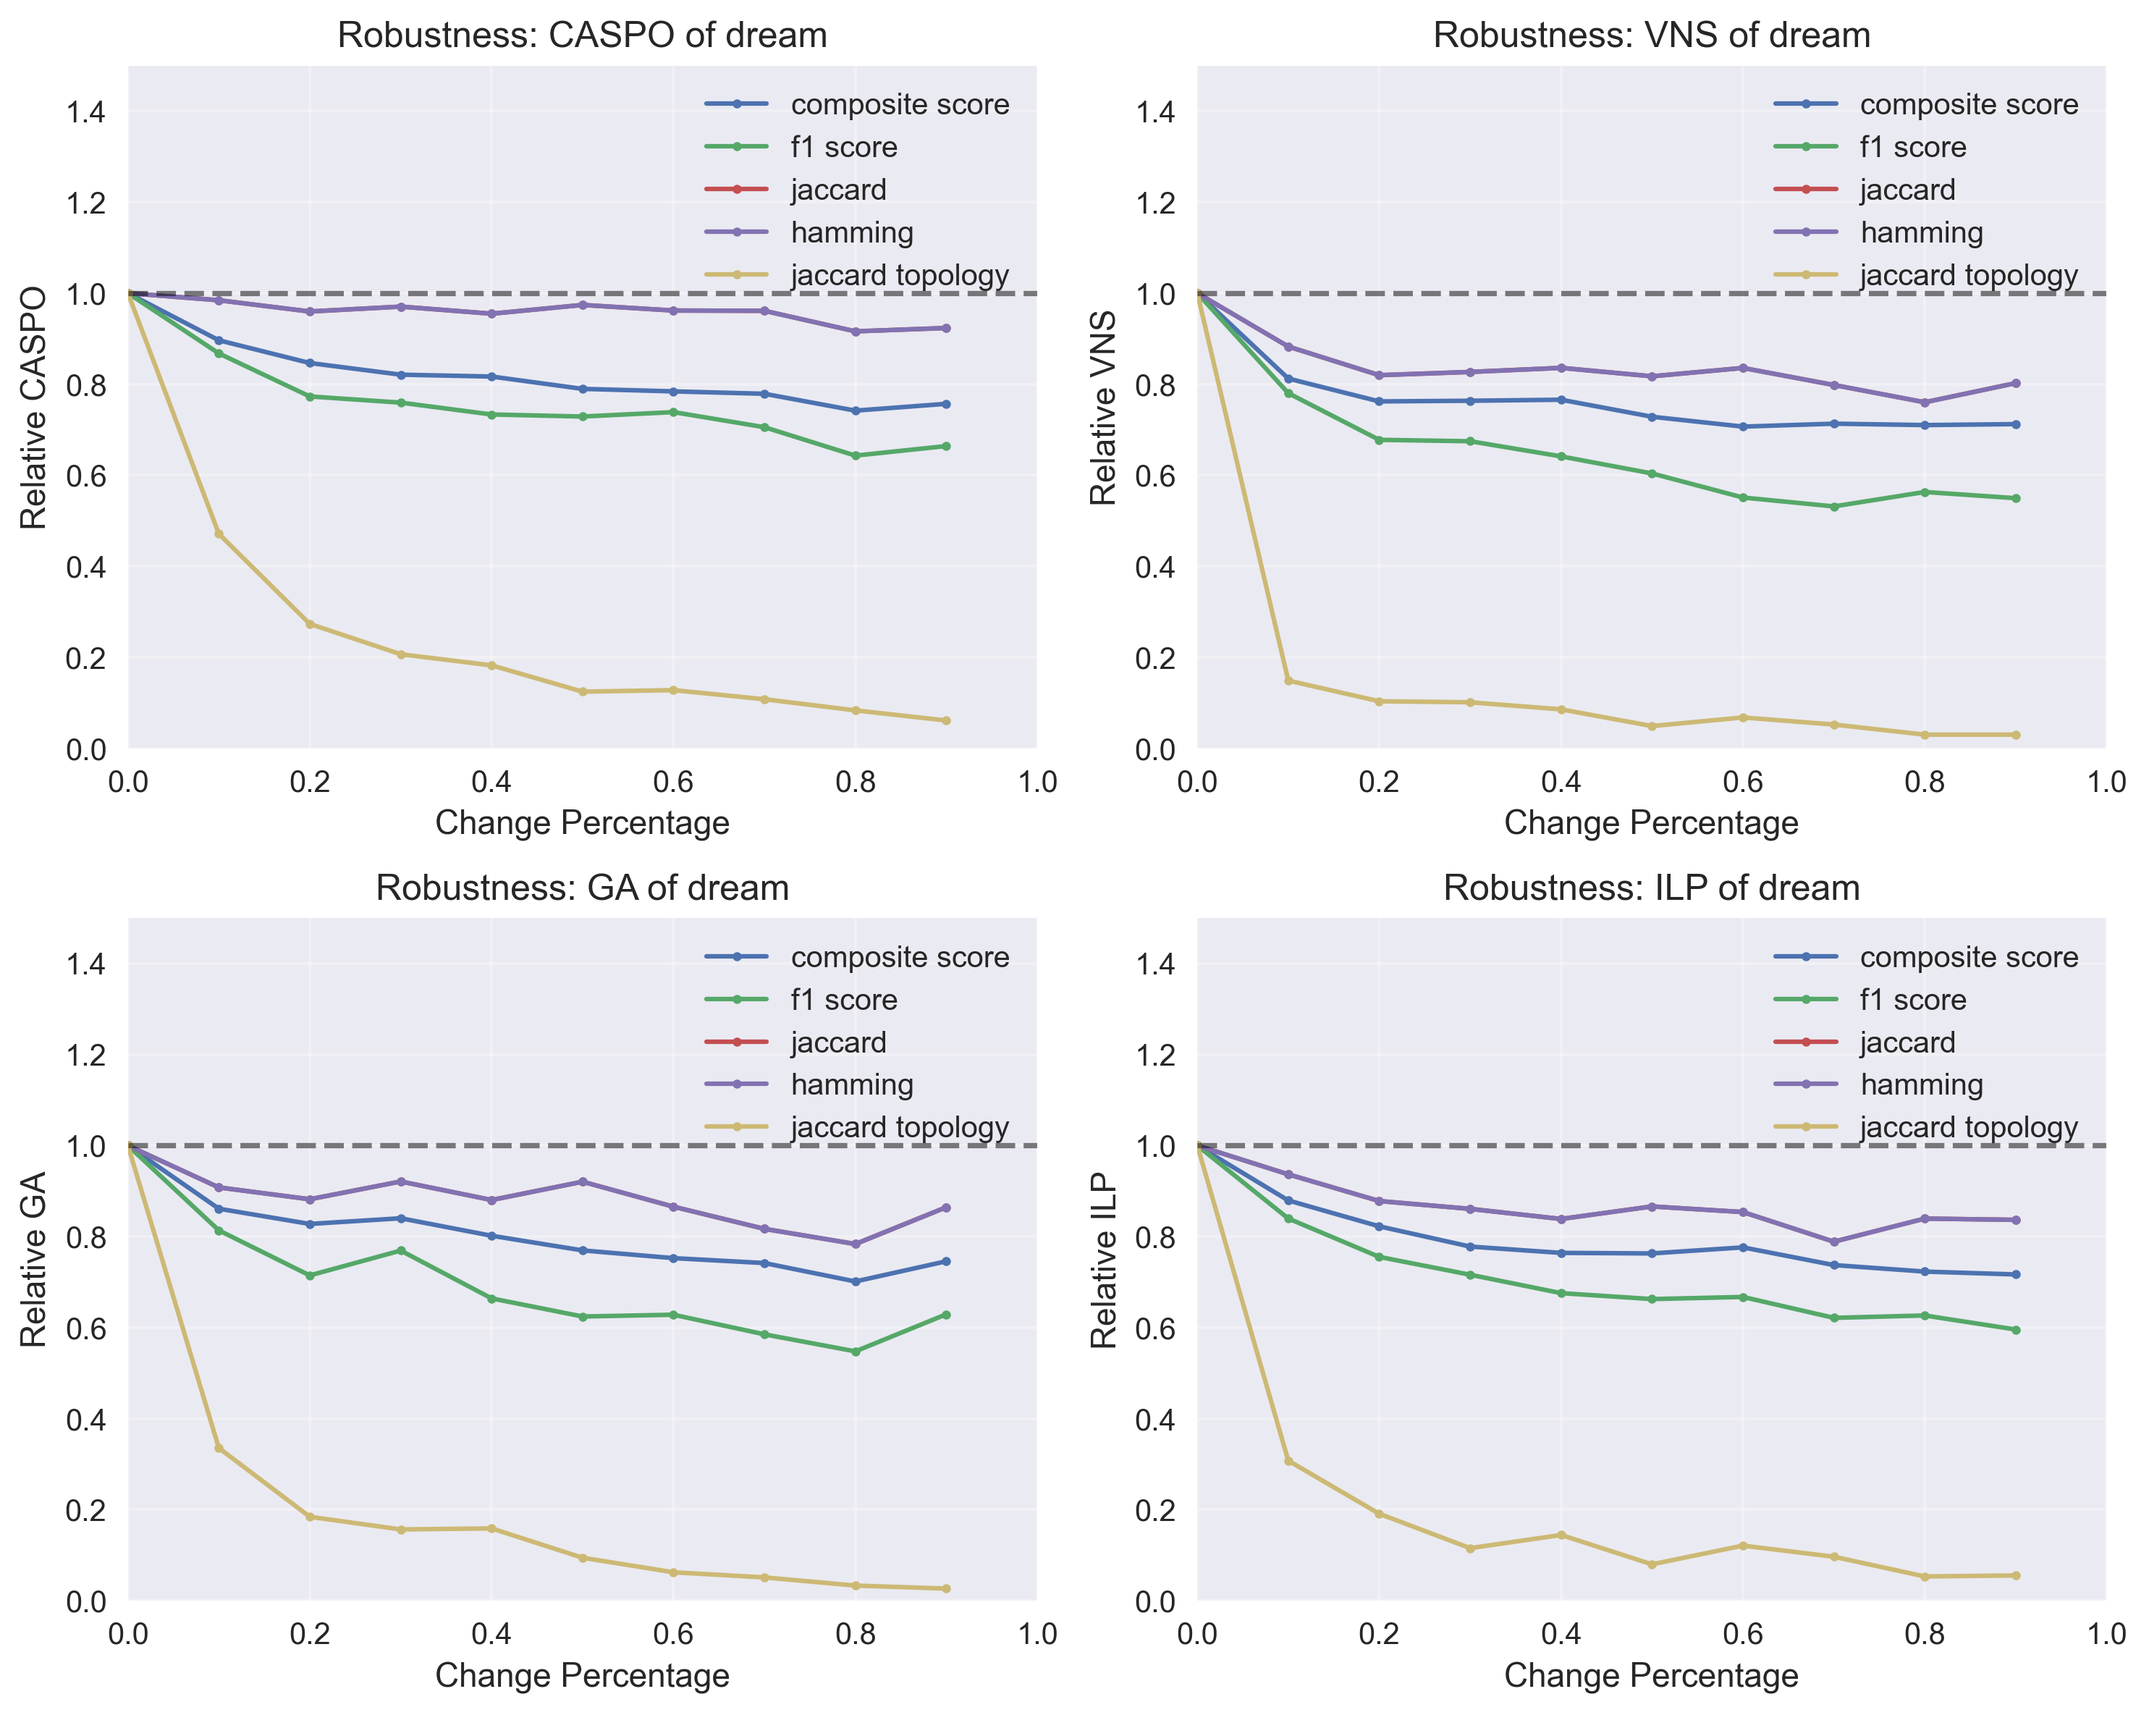
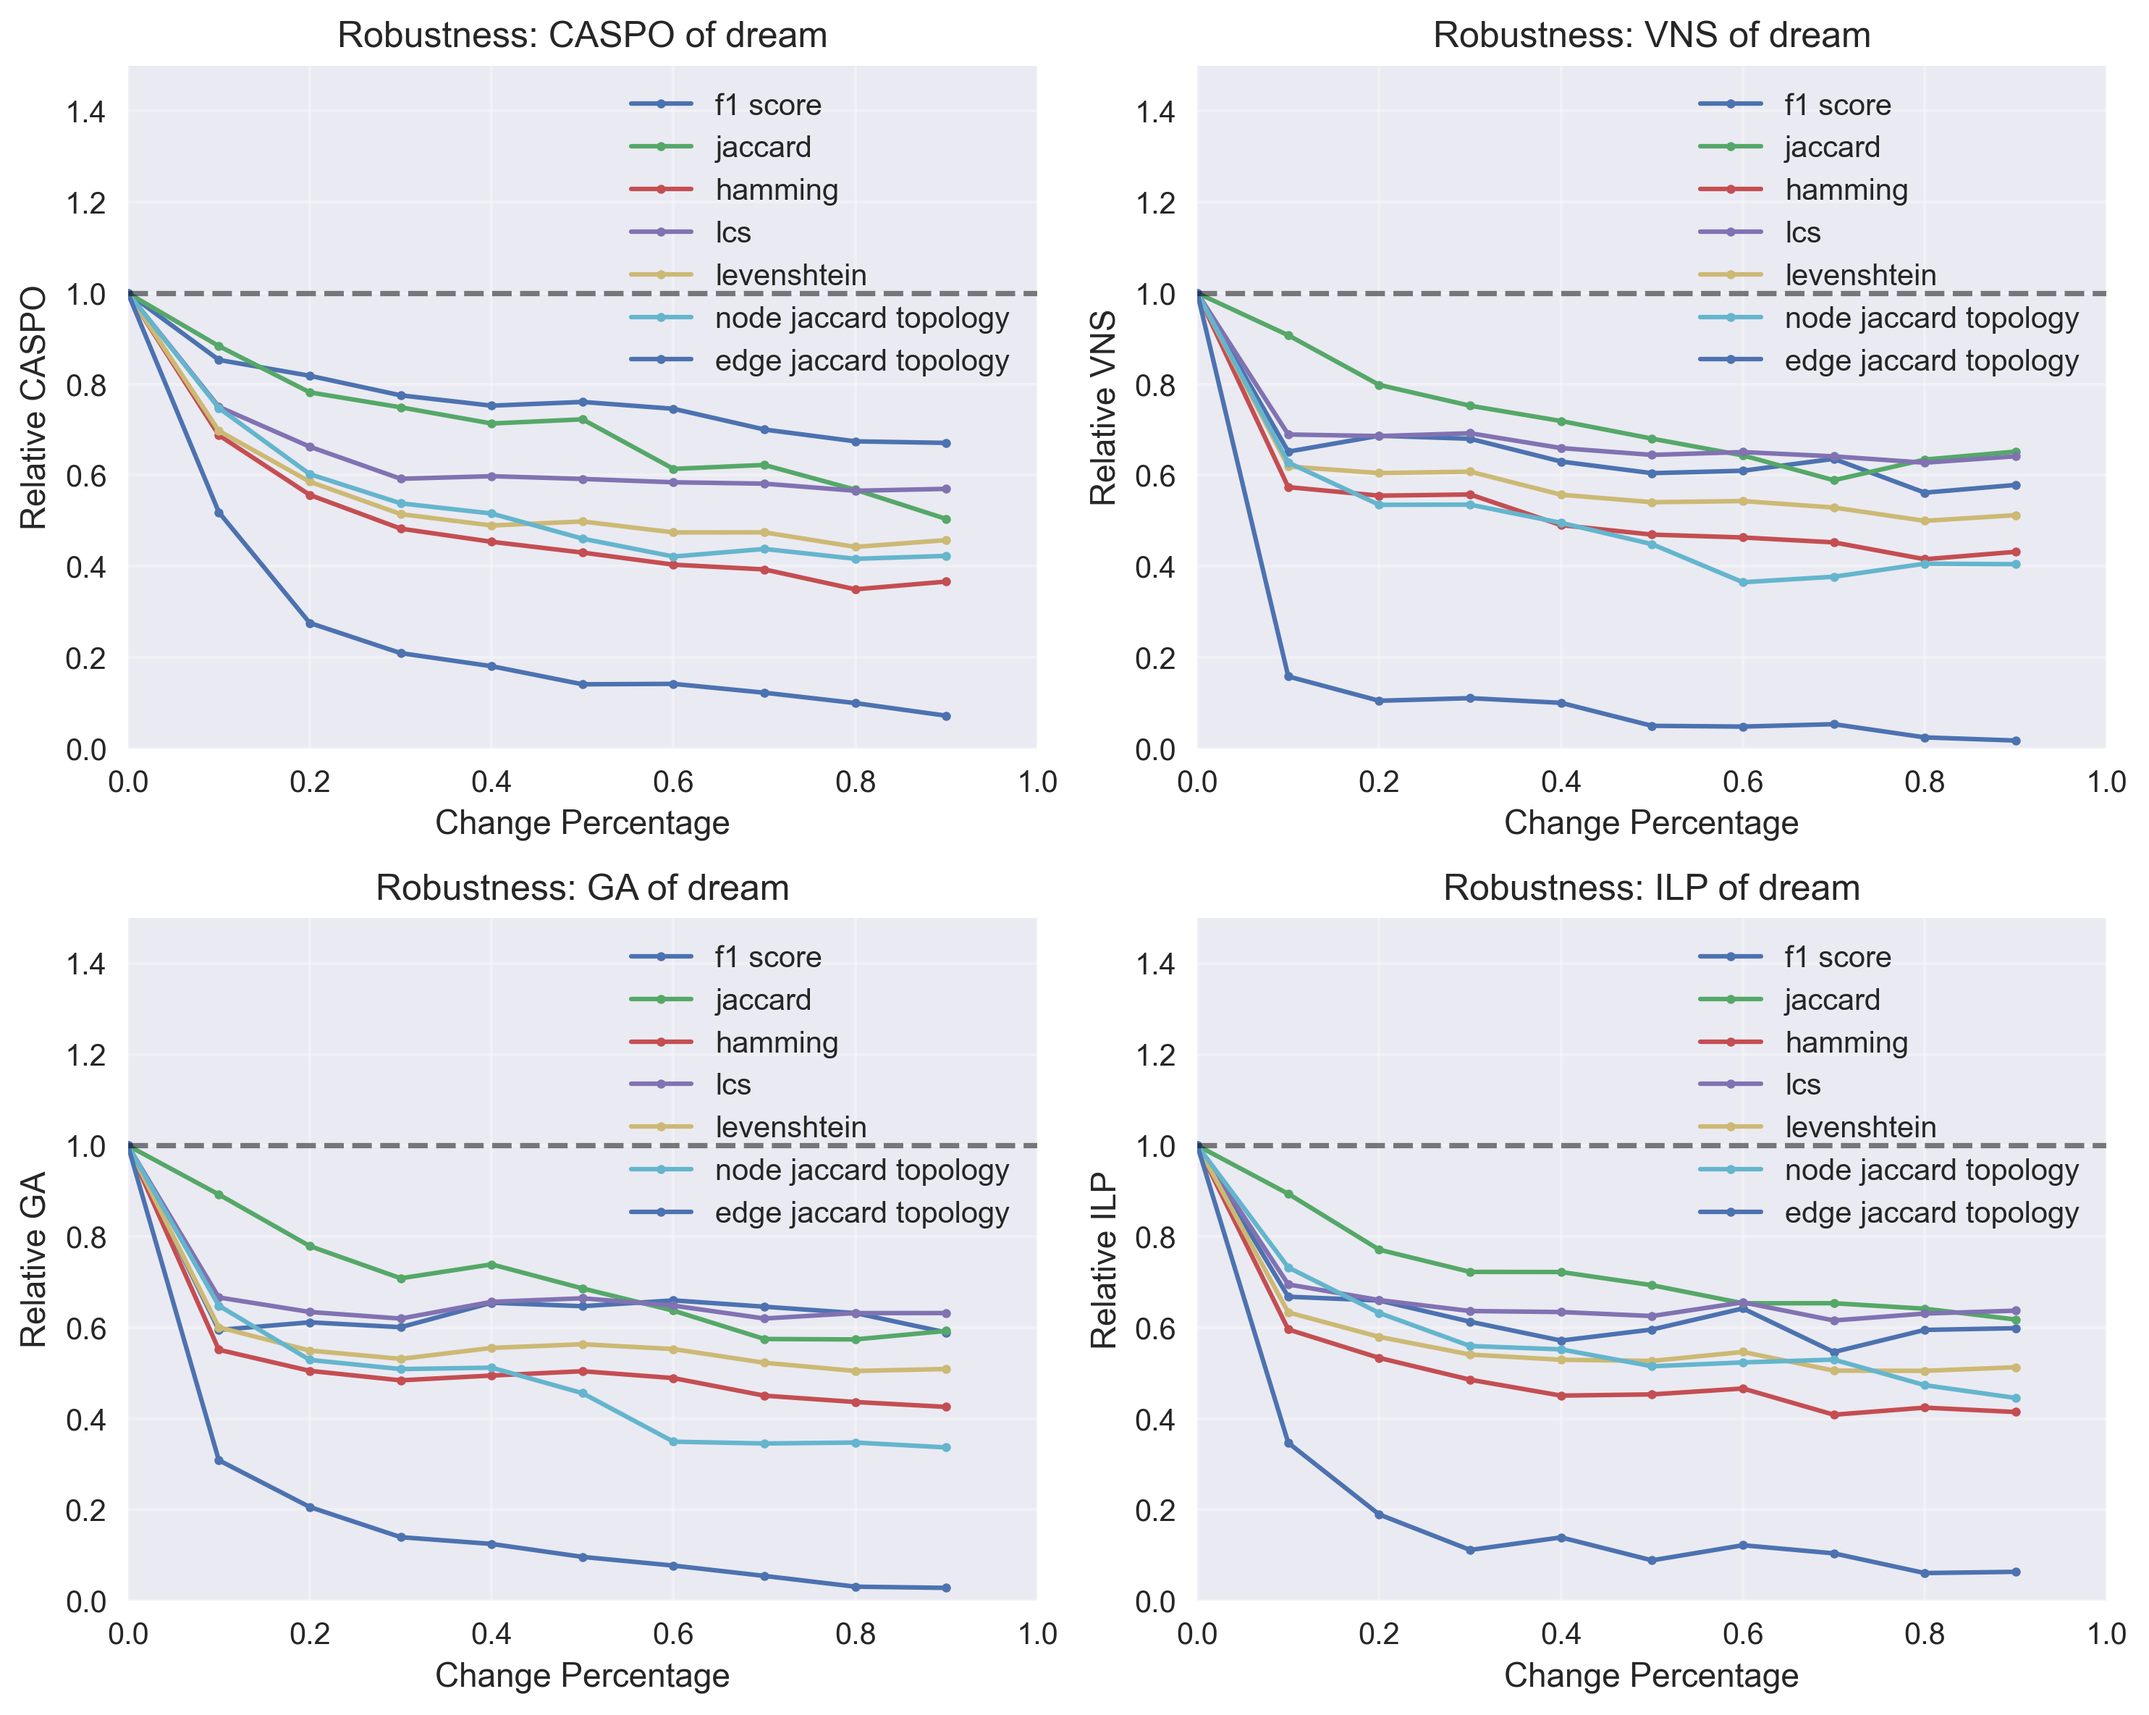
update 27th AUG

diff --git a/Step_04_Plot.py b/Step_04_Plot.py
@@ -7,7 +7,6 @@ import argparse
 plt.style.use('seaborn-v0_8')
 # sns.set_palette("husl")
 # plt.style.use(['science'])
-
 # Define the methods and their colors for consistent visualization
 methods = ['CASPO', 'VNS', 'GA', 'ILP']
 colors = ['#E41A1C', '#377EB8', '#4DAF4A', '#FF7F00']  # Red, Blue, Green, Orange (ColorBrewer Set1)
@@ -50,9 +49,9 @@ def create_comparison_plots(df, dataset_name='toy'):
     key_metrics = {
         'Similarity Metrics': ['jaccard', 'hamming', 'lcs', 'levenshtein'],
         'Coverage Metrics': ['precision', 'recall', 'f1_score', 'mse'],
-        'Topology Metrics': ['node_jaccard_topology', 'edge_jaccard_topology', 
-                             'graph_edit_distance', 'degree_distribution']
+        'Topology Metrics': ['node_jaccard_topology', 'edge_jaccard_topology', 'graph_edit_distance']
     }
+    
     # Create figure 1: Attractor similarity metrics comparison
     fig, axes = plt.subplots(2, 2, figsize=(8, 6))
     fig.suptitle(f'Attractor Similarity Metrics Comparison Across Methods of {dataset_name}', fontsize=16, fontweight='bold')
@@ -78,43 +77,57 @@ def create_comparison_plots(df, dataset_name='toy'):
     plt.close(fig)
                  
     # Create figure 3: Topology similarity metrics comparison
-    fig, axes = plt.subplots(2, 2, figsize=(8, 6))
+    fig, axes = plt.subplots(1, 2, figsize=(8, 6))
     fig.suptitle(f'Topology Similarity Metrics Comparison Across Methods of {dataset_name}', fontsize=16, fontweight='bold')
 
-    plot_metric(df, axes[0, 0], 'node_jaccard_topology', 'Node Jaccard Topology Performance', 'o')
-    plot_metric(df, axes[0, 1], 'edge_jaccard_topology', 'Edge Jaccard Topology Performance', 's')
-    plot_metric(df, axes[1, 0], 'graph_edit_distance', 'Graph Edit Distance Performance', '^')
-    plot_metric(df, axes[1, 1], 'degree_distribution', 'Degree Distribution Performance', 'D')
+    plot_metric(df, axes[0], 'node_jaccard_topology', 'Node Jaccard Performance', 'o')
+    plot_metric(df, axes[1], 'edge_jaccard_topology', 'Edge Jaccard Performance', 's')
     plt.tight_layout()
     fig.savefig(output_dir / 'topology_similarity_metrics.png', dpi=300, bbox_inches='tight')
     plt.close(fig)
            
     # Create figure 4: Runtime comparison
-    if 'total_time' in df.columns:      
-        fig, ax = plt.subplots(figsize=(8, 6))  
-        
-        for method in methods:
-            method_data = df[df['method'] == method]
-            ax.plot(method_data['change_percent'], method_data['total_time'], 
-                       marker='o', linewidth=1.5, markersize=3, label=method, color=method_colors[method])
-        
-        ax.set_xlabel('Change Percentage')
-        ax.set_ylabel('Total Time (log scale)')
-        ax.set_title(f'Runtime Comparison Across Methods of {dataset_name}')
-        ax.legend()
-        ax.grid(True, alpha=0.3)
-        
-        plt.tight_layout()
-        plt.savefig(output_dir / 'runtime_comparison.png', dpi=300, bbox_inches='tight')
-        plt.close()
+    fig, axes = plt.subplots(1, 2, figsize=(12, 6))
+    ax_time, ax_recon = axes.ravel()
+
+    # Left: runtime (log scale)
+    for method in methods:
+        method_data = df[df['method'] == method]
+        ax_time.plot(
+            method_data['change_percent'], method_data['total_time'],
+            marker='o', linewidth=1.5, markersize=3, label=method, color=method_colors[method]
+        )
+    ax_time.set_xlabel('Change Percentage')
+    ax_time.set_ylabel('Total Time (log scale)')
+    ax_time.set_title(f'Runtime Comparison Across Methods of {dataset_name}')
+    ax_time.set_yscale('log')
+    ax_time.grid(True, alpha=0.3)
+    ax_time.legend()
+
+    # Right: reconstructed attractors count
+    for method in methods:
+        method_data = df[df['method'] == method]
+        ax_recon.plot(
+            method_data['change_percent'], method_data['recon_total'],
+            marker='o', linewidth=1.5, markersize=3, label=method, color=method_colors[method]
+        )
+    ax_recon.set_xlabel('Change Percentage')
+    ax_recon.set_ylabel('Number of Reconstructed Attractors')
+    ax_recon.set_title(f'Number of Reconstructed Attractors Across Methods of {dataset_name}')
+    ax_recon.grid(True, alpha=0.3)
+    ax_recon.legend()
+
+    plt.tight_layout()
+    # Save the combined figure (also save under original filenames for compatibility)
+    fig.savefig(output_dir / 'runtime_and_reconstructed_comparison.png', dpi=300, bbox_inches='tight')
+    plt.close(fig)
     
     # Create figure 5: Robustness analysis (performance degradation)    
     fig, axes = plt.subplots(2, 2, figsize=(10, 8))
     
     # Calculate performance degradation (relative to 0.0 change percentage)
     metrics_to_analyze = ['f1_score', 'jaccard', 'hamming', 'lcs', 'levenshtein', 
-                          'node_jaccard_topology', 'edge_jaccard_topology', 
-                          'graph_edit_distance']
+                          'node_jaccard_topology', 'edge_jaccard_topology']
 
     for i, method in enumerate(methods):
         ax_sub = axes[i // 2, i % 2]
@@ -141,24 +154,7 @@ def create_comparison_plots(df, dataset_name='toy'):
     plt.tight_layout()
     plt.savefig(output_dir / 'robustness_analysis.png', dpi=300, bbox_inches='tight')
     plt.close()
-
-    # Create figure 6: Number of reconstruct attractors
-    fig, ax = plt.subplots(figsize=(8, 6))
-
-    for method in methods:
-        method_data = df[df['method'] == method]
-        ax.plot(method_data['change_percent'], method_data['recon_total'], 
-                    marker='o', linewidth=1.5, markersize=3, label=method, color=method_colors[method])
-
-    ax.set_xlabel('Change Percentage')
-    ax.set_ylabel('Number of Reconstructed Attractors')
-    ax.set_title(f'Number of Reconstructed Attractors Across Methods of {dataset_name}')
-    ax.legend()
-    ax.grid(True, alpha=0.3)
-    
-    plt.tight_layout()
-    plt.savefig(output_dir / 'reconstructed_attractors.png', dpi=300, bbox_inches='tight')
-    plt.close()            
+        
     
     print(f"All plots have been saved to the '{dataset_name}' directory!")
     print(f"Generated plots:")
@@ -211,7 +207,7 @@ def load_and_plot_results(dataset_name='toy'):
         'jaccard', 'hamming', 'lcs', 'levenshtein',
         'precision', 'recall', 'f1_score', 'mse',
         'recon_total', 'total_time', 
-        'node_jaccard_topology', 'edge_jaccard_topology',  'graph_edit_distance', 'degree_distribution'
+        'node_jaccard_topology', 'edge_jaccard_topology',  'graph_edit_distance'
     ]
 
     group_columns = ['method', 'change_percent']
@@ -247,7 +243,7 @@ def load_and_plot_results(dataset_name='toy'):
         toy_df['dataset'] = "Toy"
         combined_df = pd.concat([df, toy_df], ignore_index=True)
 
-        for metric in ['jaccard', 'hamming', 'lcs', 'total_time', 'node_jaccard_topology', 'edge_jaccard_topology', 'recon_total']:
+        for metric in ['jaccard', 'hamming', 'lcs', 'levenshtein', 'f1_score', 'total_time', 'node_jaccard_topology', 'edge_jaccard_topology', 'recon_total']:
             fig, axes = plt.subplots(2, 2, figsize=(8, 6))
             fig.suptitle(f'{metric} Similarity Metrics Comparison Across Network', fontsize=16, fontweight='bold')
             ymin, ymax = combined_df[metric].min(), combined_df[metric].max()

diff --git a/README.md b/README.md
@@ -7,7 +7,7 @@ This repository contains tools for analyzing and optimizing Boolean networks usi
 To run the code on a High-Performance Computing (HPC) cluster, you need to load the necessary modules. Here are the commands to do so:
 
 ```bash
-salloc -N 1 -n 1 --exclusive
+salloc -N 1 -n 1 --exclusive --time=4:00:00
 salloc -N 1 -n 1 --exclusive -C skylake
 module load lang/R/4.4.1-gfbf-2023b
 module load lang/Python/3.11.5-GCCcore-13.2.0
